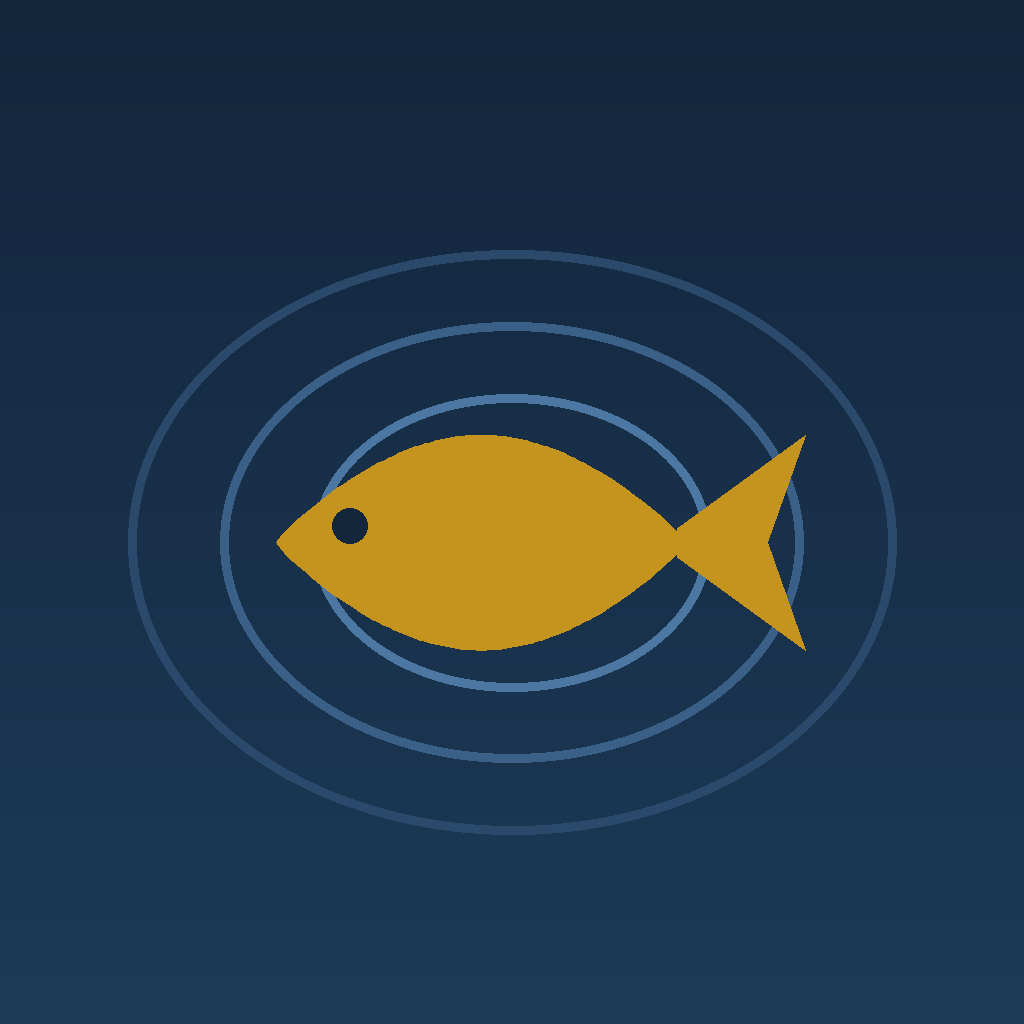
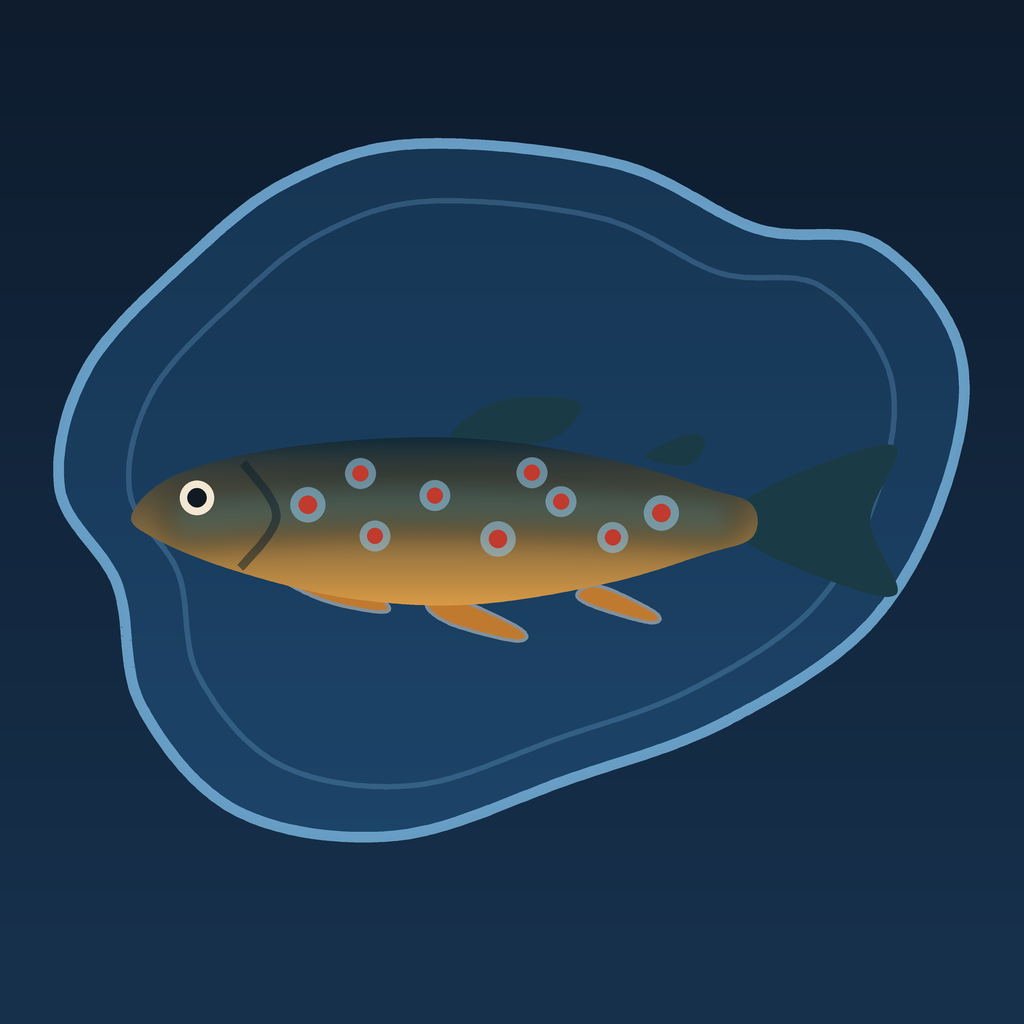
Add files via upload

diff --git a/app.js b/app.js
@@ -96,7 +96,7 @@ function translateStaticUI(){
  const sort=$("findSort");if(sort&&sort.options.length>=4){sort.options[0].text=t("bestMatch");sort.options[1].text=t("closest");sort.options[2].text=t("recent");sort.options[3].text=t("quantity")}
 }
 
-const APP_VERSION="v1a";
+const APP_VERSION="v1b";
 const API="https://services1.arcgis.com/TJH5KDher0W13Kgo/ArcGIS/rest/services/FishStockingDataForRecreationalPurposes/FeatureServer/0/query";
 const ACCESS_API="https://services1.arcgis.com/YiULsZbgRKmBtdZN/ArcGIS/rest/services/Protected_Fishing_Access_IntroGIS_smaglio2_WFL1/FeatureServer/2/query";
 const FMZ_API="https://ws.lioservices.lrc.gov.on.ca/arcgis2/rest/services/LIO_OPEN_DATA/LIO_Open07/MapServer/14/query";

diff --git a/sw.js b/sw.js
@@ -3,7 +3,7 @@
    load isn't blocked on ~12 MB. Live government API calls always go to the
    network so regulations and advisories are never served stale. */
 
-const VERSION = "v1a";
+const VERSION = "v1b";
 const SHELL = `osl-shell-${VERSION}`;
 const DATA  = `osl-data-${VERSION}`;
 

diff --git a/tools/icon.py b/tools/icon.py
@@ -1,0 +1,305 @@
+"""
+Ontario Stocked Lakes — app icon.
+
+Draws a brook trout (speckled trout, Ontario's most-stocked species) inside the
+outline of a lake, on the same deep navy the Estate File family uses.
+
+Everything is drawn at 4x and downsampled, because PIL has no anti-aliasing:
+without supersampling every curve comes out with visible stair-stepping, which
+is most of what makes a generated icon look amateur.
+
+Shapes are Catmull-Rom splines through hand-placed control points rather than
+polygons, for the same reason — a fish built from straight segments reads as
+clip art no matter how good the colours are.
+
+Run:  python3 tools/icon.py            write the icon set
+      python3 tools/icon.py preview    also write a home-screen size sheet
+"""
+from PIL import Image, ImageDraw, ImageFilter
+import sys, os, math, json
+
+S = 4096          # supersample canvas
+OUT = 1024        # final master size
+
+# ---------------------------------------------------------------- palette
+NAVY_TOP   = (0x0E, 0x1C, 0x2E)
+NAVY_BOT   = (0x17, 0x31, 0x4D)
+LAKE_TOP   = (0x16, 0x33, 0x50)
+LAKE_BOT   = (0x1E, 0x48, 0x6E)
+CONTOUR    = (0x6E, 0xA6, 0xCE)
+BACK_DARK  = (0x12, 0x2A, 0x38)   # trout dorsal
+FIN_DARK   = (0x1A, 0x3B, 0x45)   # fins/tail, lifted off the water
+FLANK_MID  = (0x2C, 0x5A, 0x63)
+BELLY      = (0xD9, 0x9A, 0x46)   # warm amber belly
+BELLY_LOW  = (0xC0, 0x7A, 0x30)
+CREAM      = (0xF2, 0xE7, 0xD2)
+RED_SPOT   = (0xC0, 0x3A, 0x2E)
+BLUE_HALO  = (0x8F, 0xC2, 0xE0)
+FIN_EDGE   = (0xF4, 0xEC, 0xDD)
+
+
+# ---------------------------------------------------------------- geometry
+def catmull(points, closed=True, steps=28):
+    """Catmull-Rom spline through `points`, returned as a dense polygon."""
+    pts = list(points)
+    if closed:
+        pts = [pts[-1]] + pts + [pts[0], pts[1]]
+    else:
+        pts = [pts[0]] + pts + [pts[-1]]
+    out = []
+    for i in range(len(pts) - 3):
+        p0, p1, p2, p3 = pts[i], pts[i + 1], pts[i + 2], pts[i + 3]
+        for s in range(steps):
+            t = s / steps
+            t2, t3 = t * t, t * t * t
+            x = 0.5 * ((2 * p1[0]) + (-p0[0] + p2[0]) * t +
+                       (2 * p0[0] - 5 * p1[0] + 4 * p2[0] - p3[0]) * t2 +
+                       (-p0[0] + 3 * p1[0] - 3 * p2[0] + p3[0]) * t3)
+            y = 0.5 * ((2 * p1[1]) + (-p0[1] + p2[1]) * t +
+                       (2 * p0[1] - 5 * p1[1] + 4 * p2[1] - p3[1]) * t2 +
+                       (-p0[1] + 3 * p1[1] - 3 * p2[1] + p3[1]) * t3)
+            out.append((x, y))
+    return out
+
+
+def gradient(size, top, bottom, box=None):
+    """Vertical gradient image, optionally spanning only `box` vertically."""
+    g = Image.new("RGB", (size, size), top)
+    d = ImageDraw.Draw(g)
+    y0, y1 = (0, size) if box is None else box
+    span = max(1, y1 - y0)
+    for y in range(size):
+        t = min(1.0, max(0.0, (y - y0) / span))
+        d.line([(0, y), (size, y)],
+               fill=(int(top[0] + (bottom[0] - top[0]) * t),
+                     int(top[1] + (bottom[1] - top[1]) * t),
+                     int(top[2] + (bottom[2] - top[2]) * t)))
+    return g
+
+
+def mask_from(poly):
+    m = Image.new("L", (S, S), 0)
+    ImageDraw.Draw(m).polygon(poly, fill=255)
+    return m
+
+
+def scale(pts, box):
+    """Map normalised (0..1) points into a pixel box (x, y, w, h)."""
+    x, y, w, hgt = box
+    return [(x + px * w, y + py * hgt) for px, py in pts]
+
+
+# ---------------------------------------------------------------- the lake
+def lake_outline():
+    """An irregular, believable lake — not a circle, not a blob."""
+    pts = [
+        (0.400, 0.045), (0.610, 0.070), (0.755, 0.150),
+        (0.880, 0.170), (0.965, 0.300), (0.950, 0.470),
+        (0.870, 0.640), (0.720, 0.760), (0.560, 0.830),
+        (0.380, 0.900), (0.215, 0.870), (0.115, 0.740),
+        (0.090, 0.590), (0.030, 0.470), (0.060, 0.320),
+        (0.170, 0.180), (0.270, 0.090),
+    ]
+    return pts
+
+
+def shrink(pts, k, cx=0.5, cy=0.5):
+    return [(cx + (x - cx) * k, cy + (y - cy) * k) for x, y in pts]
+
+
+# --------------------------------------------------------------- the trout
+def trout_body():
+    """Brook trout in profile, facing left. Deep-bodied, blunt snout."""
+    return [
+        (0.018, 0.492),   # snout
+        (0.068, 0.396),   # top of head
+        (0.178, 0.330),
+        (0.330, 0.296),   # shoulder
+        (0.470, 0.302),   # dorsal origin
+        (0.618, 0.356),
+        (0.730, 0.428),   # peduncle top
+        (0.784, 0.470),
+        (0.784, 0.556),   # narrow peduncle
+        (0.726, 0.600),
+        (0.606, 0.676),
+        (0.440, 0.732),   # deepest belly
+        (0.286, 0.716),
+        (0.140, 0.640),
+        (0.040, 0.552),   # chin
+    ]
+
+
+def trout_tail():
+    return [(0.770, 0.470), (0.858, 0.372), (0.962, 0.318),
+            (0.930, 0.512), (0.962, 0.706), (0.858, 0.652), (0.770, 0.556)]
+
+
+def dorsal_fin():
+    return [(0.412, 0.300), (0.470, 0.198), (0.566, 0.196),
+            (0.560, 0.262), (0.516, 0.310)]
+
+
+def adipose_fin():
+    return [(0.652, 0.344), (0.700, 0.288), (0.726, 0.300), (0.706, 0.366)]
+
+
+def pectoral_fin():
+    return [(0.212, 0.612), (0.318, 0.708), (0.330, 0.752),
+            (0.258, 0.724), (0.196, 0.656)]
+
+
+def pelvic_fin():
+    return [(0.418, 0.718), (0.498, 0.796), (0.492, 0.828),
+            (0.412, 0.784), (0.382, 0.734)]
+
+
+def anal_fin():
+    return [(0.596, 0.684), (0.664, 0.752), (0.658, 0.780),
+            (0.586, 0.736), (0.568, 0.704)]
+
+
+def build(size=OUT, flat=True):
+    base = gradient(S, NAVY_TOP, NAVY_BOT).convert("RGBA")
+
+    # ---- lake: filled shape with bathymetry contour rings inside it
+    lake_box = (S * 0.030, S * 0.105, S * 0.940, S * 0.790)
+    outline = lake_outline()
+    lake_poly = catmull(scale(outline, lake_box))
+
+    lake_layer = Image.new("RGBA", (S, S), (0, 0, 0, 0))
+    lake_fill = gradient(S, LAKE_TOP, LAKE_BOT).convert("RGBA")
+    lake_layer.paste(lake_fill, (0, 0), mask_from(lake_poly))
+    base = Image.alpha_composite(base, lake_layer)
+
+    # contour rings — the same motif the app uses behind its hero
+    ring = Image.new("RGBA", (S, S), (0, 0, 0, 0))
+    rd = ImageDraw.Draw(ring)
+    rd.line(lake_poly + [lake_poly[0]], fill=CONTOUR + (235,), width=int(S * 0.0105), joint="curve")
+    for k, a in ((0.845, 74),):
+        p = catmull(scale(shrink(outline, k), lake_box))
+        rd.line(p + [p[0]], fill=CONTOUR + (a,), width=int(S * 0.0055), joint="curve")
+    base = Image.alpha_composite(base, ring)
+
+    # ---- trout
+    fish_box = (S * 0.115, S * 0.318, S * 0.790, S * 0.372)
+    body = catmull(scale(trout_body(), fish_box))
+    tail = catmull(scale(trout_tail(), fish_box), steps=20)
+
+    fins = Image.new("RGBA", (S, S), (0, 0, 0, 0))
+    fd = ImageDraw.Draw(fins)
+    for f, col in ((dorsal_fin(), FIN_DARK), (adipose_fin(), FIN_DARK),
+                   (pectoral_fin(), BELLY_LOW), (pelvic_fin(), BELLY_LOW),
+                   (anal_fin(), BELLY_LOW)):
+        poly = catmull(scale(f, fish_box), steps=18)
+        fd.polygon(poly, fill=col + (255,))
+    # A thin light rim on the lower fins reads as the brook trout's white fin
+    # margin. Tracing half the spline instead drew hooks that looked like claws.
+    for f in (pectoral_fin(), pelvic_fin(), anal_fin()):
+        poly = catmull(scale(f, fish_box), steps=18)
+        fd.line(poly + [poly[0]], fill=FIN_EDGE + (120,), width=int(S * 0.0035), joint="curve")
+
+    tail_layer = Image.new("RGBA", (S, S), (0, 0, 0, 0))
+    ImageDraw.Draw(tail_layer).polygon(tail, fill=FIN_DARK + (255,))
+
+    body_layer = Image.new("RGBA", (S, S), (0, 0, 0, 0))
+    ys = [p[1] for p in body]
+    body_grad = gradient(S, BACK_DARK, BELLY, box=(min(ys), max(ys))).convert("RGBA")
+    bmask = mask_from(body)
+    body_layer.paste(body_grad, (0, 0), bmask)
+
+    # flank shading: a soft mid-tone band so the body isn't a flat ramp
+    shade = Image.new("RGBA", (S, S), (0, 0, 0, 0))
+    sd = ImageDraw.Draw(shade)
+    lat = catmull(scale([(0.06, 0.512), (0.30, 0.470), (0.55, 0.478),
+                         (0.77, 0.508)], fish_box), closed=False, steps=24)
+    sd.line(lat, fill=FLANK_MID + (120,), width=int(S * 0.052), joint="curve")
+    shade = shade.filter(ImageFilter.GaussianBlur(S * 0.012))
+    body_layer = Image.alpha_composite(body_layer, Image.composite(
+        shade, Image.new("RGBA", (S, S), (0, 0, 0, 0)), bmask))
+
+    # red spots in blue halos — what makes a speckled trout a speckled trout
+    spots = Image.new("RGBA", (S, S), (0, 0, 0, 0))
+    pd = ImageDraw.Draw(spots)
+    placements = [(0.235, 0.470), (0.318, 0.552), (0.392, 0.446),
+                  (0.470, 0.560), (0.548, 0.462), (0.612, 0.556),
+                  (0.672, 0.492), (0.300, 0.388), (0.512, 0.386)]
+    for i, (px, py) in enumerate(placements):
+        cx, cy = scale([(px, py)], fish_box)[0]
+        halo = S * (0.0150 if i % 3 else 0.0172)
+        pd.ellipse([cx - halo, cy - halo, cx + halo, cy + halo], fill=BLUE_HALO + (150,))
+        r = halo * 0.52
+        pd.ellipse([cx - r, cy - r, cx + r, cy + r], fill=RED_SPOT + (255,))
+    body_layer = Image.alpha_composite(body_layer, Image.composite(
+        spots, Image.new("RGBA", (S, S), (0, 0, 0, 0)), bmask))
+
+    # eye
+    eye = Image.new("RGBA", (S, S), (0, 0, 0, 0))
+    ed = ImageDraw.Draw(eye)
+    ex, ey = scale([(0.098, 0.452)], fish_box)[0]
+    r = S * 0.0168
+    ed.ellipse([ex - r, ey - r, ex + r, ey + r], fill=CREAM + (255,))
+    r2 = r * 0.56
+    ed.ellipse([ex - r2, ey - r2, ex + r2, ey + r2], fill=(0x10, 0x1A, 0x22, 255))
+
+    # gill plate
+    gill = Image.new("RGBA", (S, S), (0, 0, 0, 0))
+    gd = ImageDraw.Draw(gill)
+    gp = catmull(scale([(0.155, 0.360), (0.196, 0.500), (0.150, 0.640)], fish_box),
+                 closed=False, steps=20)
+    gd.line(gp, fill=(0x0C, 0x1E, 0x2A, 130), width=int(S * 0.0085), joint="curve")
+    gill = Image.composite(gill, Image.new("RGBA", (S, S), (0, 0, 0, 0)), bmask)
+
+    for layer in (fins, tail_layer, body_layer, gill, eye):
+        base = Image.alpha_composite(base, layer)
+
+    return base.convert("RGB").resize((size, size), Image.LANCZOS)
+
+
+# ---------------------------------------------------------------- outputs
+def write_all(root):
+    master = build(OUT)
+    web = os.path.join(root, "icons")
+    os.makedirs(web, exist_ok=True)
+    for name, px in (("icon-192.png", 192), ("icon-512.png", 512),
+                     ("icon-1024.png", 1024), ("apple-touch-icon.png", 180)):
+        master.resize((px, px), Image.LANCZOS).save(os.path.join(web, name))
+    # maskable: inset to the 80% safe zone
+    m = Image.new("RGB", (1024, 1024), NAVY_TOP)
+    m.paste(master.resize((820, 820), Image.LANCZOS), (102, 102))
+    m.resize((512, 512), Image.LANCZOS).save(os.path.join(web, "icon-maskable-512.png"))
+
+    # Xcode AppIcon set, when the App Store bundle is present alongside.
+    xc = os.environ.get("XCODE_APPICON")
+    if xc and os.path.isdir(xc):
+        slots = [("Icon-20@2x.png", "20x20", "2x", "iphone"),
+                 ("Icon-20@3x.png", "20x20", "3x", "iphone"),
+                 ("Icon-29@2x.png", "29x29", "2x", "iphone"),
+                 ("Icon-29@3x.png", "29x29", "3x", "iphone"),
+                 ("Icon-40@2x.png", "40x40", "2x", "iphone"),
+                 ("Icon-40@3x.png", "40x40", "3x", "iphone"),
+                 ("Icon-60@2x.png", "60x60", "2x", "iphone"),
+                 ("Icon-60@3x.png", "60x60", "3x", "iphone"),
+                 ("Icon-1024.png", "1024x1024", "1x", "ios-marketing")]
+        images = []
+        for fn, size, sc, idiom in slots:
+            px = round(float(size.split("x")[0]) * int(sc[0]))
+            # RGB, never RGBA: App Store Connect rejects icons with alpha.
+            master.convert("RGB").resize((px, px), Image.LANCZOS).save(os.path.join(xc, fn))
+            images.append({"filename": fn, "idiom": idiom, "scale": sc, "size": size})
+        json.dump({"images": images, "info": {"author": "xcode", "version": 1}},
+                  open(os.path.join(xc, "Contents.json"), "w"), indent=2)
+    return master
+
+
+if __name__ == "__main__":
+    root = sys.argv[2] if len(sys.argv) > 2 else "."
+    master = write_all(root)
+    if len(sys.argv) > 1 and sys.argv[1] == "preview":
+        sheet = Image.new("RGB", (760, 320), (0x2A, 0x2A, 0x2A))
+        x = 30
+        for px in (180, 120, 87, 60, 40):
+            r = master.resize((px, px), Image.LANCZOS)
+            sheet.paste(r, (x, 40 + (180 - px) // 2))
+            x += px + 26
+        sheet.save("/tmp/icon-preview.png")
+    print("icon written")

diff --git a/CHANGELOG.md b/CHANGELOG.md
@@ -4,6 +4,19 @@ Bundles are named sequentially — v1a, v1b, v1c — matching the Estate File
 convention. `APP_VERSION` in `app.js` and `VERSION` in `sw.js` carry the same
 marker and must always match.
 
+## v1b — 2026-08-23
+
+### Changed
+- **New app icon: a brook trout inside a lake outline.** The old mark was a
+  flat yellow cartoon fish. This one is drawn as a real speckled trout —
+  tapered profile, forked tail, amber belly, red spots in blue halos, white fin
+  margins — sitting inside an irregular lake shoreline with a bathymetry
+  contour, on the same deep navy as Estate File.
+- Icon artwork is now generated by `tools/icon.py` (Catmull-Rom splines,
+  4× supersampled) rather than hand-placed polygons, so the curves are smooth
+  and the whole set — web icons, maskable icon and the nine-slot Xcode
+  AppIcon — comes from one master and cannot drift.
+
 ## v1a — 2026-08-23
 
 ### Fixed
